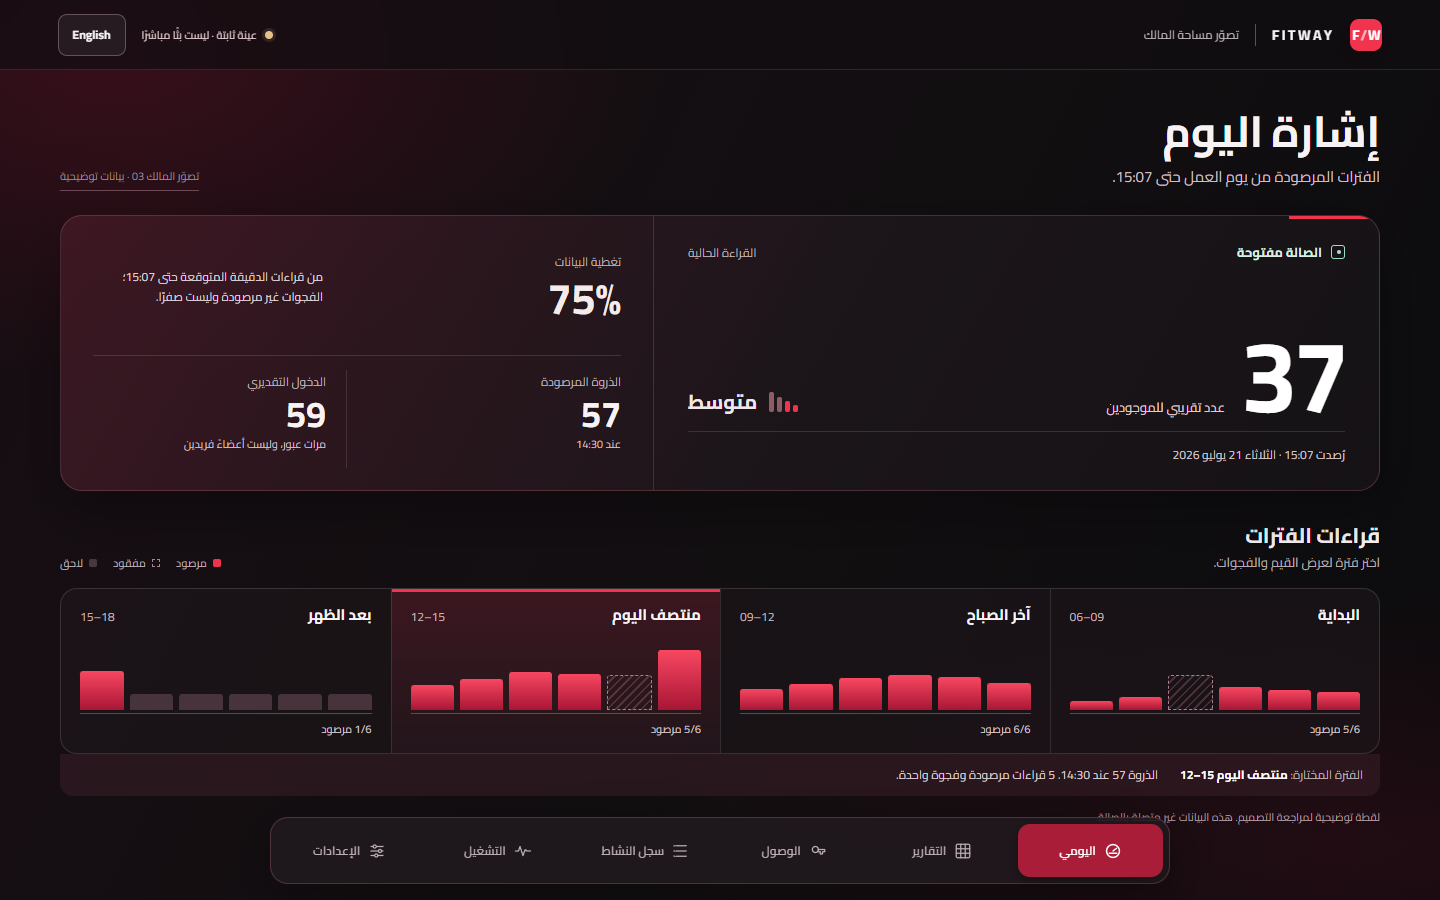
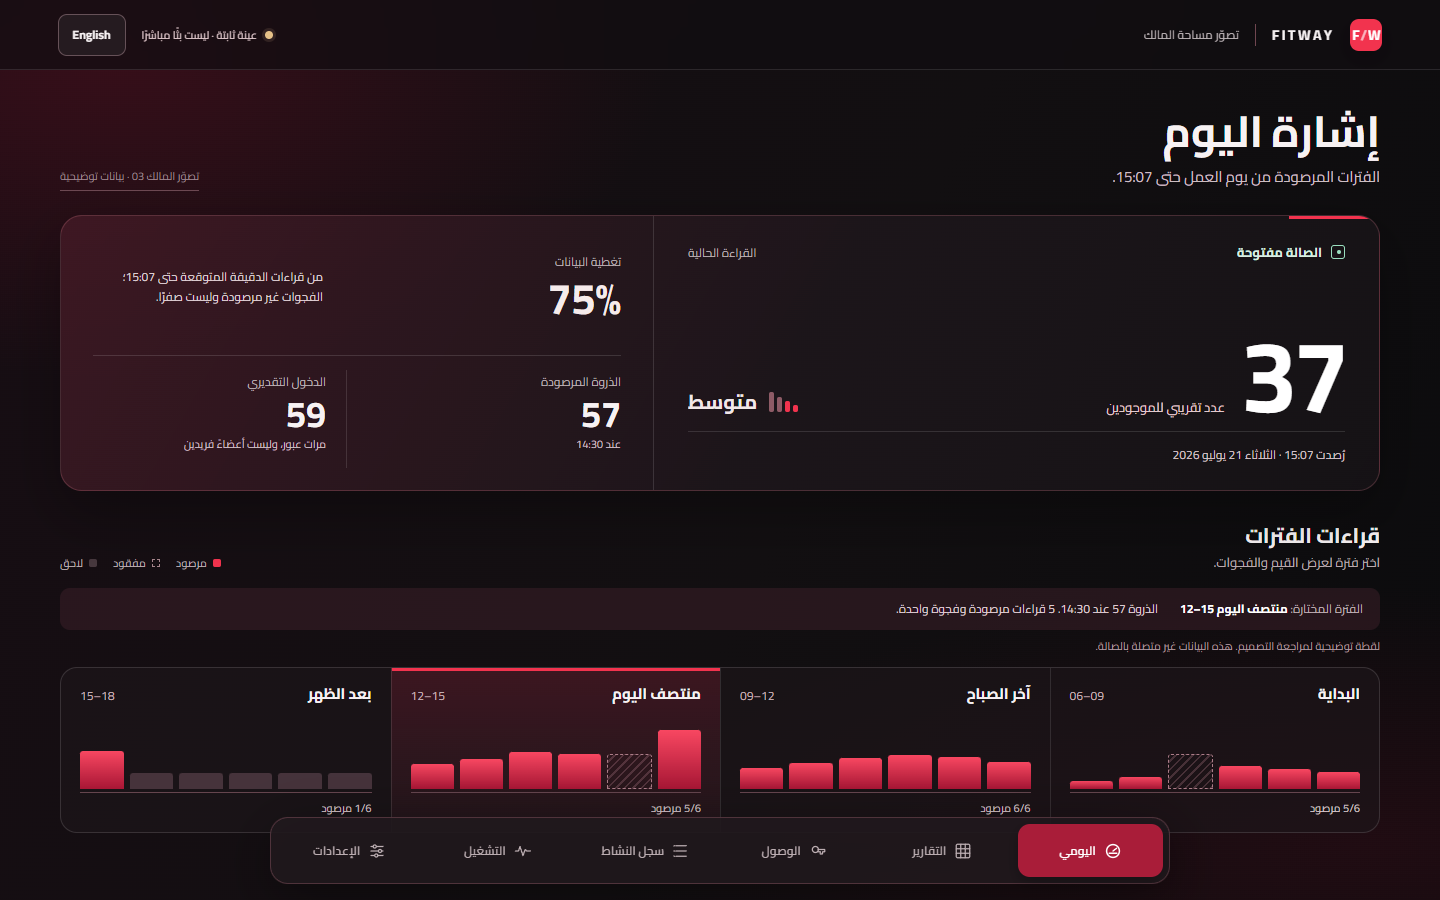
Keep Owner Daily period feedback clear of mobile dock

Changed region(s): [[0.0312, 0.6533, 0.9688, 0.9333]]

diff --git a/design-research/owner-composition-exploration-r03/concepts/direction-03/app.js b/design-research/owner-composition-exploration-r03/concepts/direction-03/app.js
@@ -280,6 +280,8 @@ function daily() {
     </section>
     <section class="period-section" aria-labelledby="period-title">
       <div class="section-heading"><div><h2 id="period-title">${t("intervals")}</h2><p>${t("periodHint")}</p></div><div class="legend"><span><i class="legend-observed"></i>${t("observed")}</span><span><i class="legend-missing"></i>${t("missing")}</span><span><i class="legend-future"></i>${t("notYet")}</span></div></div>
+      <div class="detail-strip" role="status" aria-live="polite"><span>${t("selected")}: <strong>${t("period" + selectedPeriod)} <bdi dir="ltr">${t("period" + selectedPeriod + "time")}</bdi></strong></span><p>${t("period" + selectedPeriod + "detail")}</p></div>
+      <p class="truth-note">${t("sampleNotice")}</p>
       <div class="period-track">${periods
 				.map(
 					(
@@ -292,8 +294,6 @@ function daily() {
       </button>`,
 				)
 				.join("")}</div>
-      <div class="detail-strip" role="status" aria-live="polite"><span>${t("selected")}: <strong>${t("period" + selectedPeriod)} <bdi dir="ltr">${t("period" + selectedPeriod + "time")}</bdi></strong></span><p>${t("period" + selectedPeriod + "detail")}</p></div>
-      <p class="truth-note">${t("sampleNotice")}</p>
     </section>
   </div>`;
 }

diff --git a/design-research/owner-composition-exploration-r03/concepts/direction-03/style.css b/design-research/owner-composition-exploration-r03/concepts/direction-03/style.css
@@ -110,4 +110,8 @@ table{border-collapse:collapse;width:100%;min-width:510px;font-size:12px}caption
 @media(max-width:350px){.nav-item{font-size:8px}.matrix-axis,.matrix-row{grid-template-columns:43px repeat(6,minmax(0,1fr));gap:2px}.matrix-row strong{font-size:8px}.matrix-bottom{margin-inline-start:45px}.heat-cell{font-size:10px}}
 @media(max-width:580px){.mobile-truth{display:inline-block;color:var(--amber);font-size:10px;line-height:1.4;margin-block-start:5px}.page-lead{margin-block-end:14px}main{padding-block-start:19px}}
 @media(max-width:580px){.heat-cell{height:44px}.reports-layout{padding-block-end:30px}}
+/* Keep selected-period feedback and sample truth ahead of the banded chart. */
+.period-section .detail-strip{border-radius:10px}
+.period-section .truth-note{margin-block:8px 13px}
+@media(max-width:580px){.period-section .detail-strip{padding:7px 10px}.period-section .truth-note{margin-block:5px 10px}}
 @media(prefers-reduced-motion:reduce){html{scroll-behavior:auto}*,*:before,*:after{transition-duration:0.01ms!important;animation-duration:0.01ms!important}}

diff --git a/design-research/owner-composition-exploration-r03/concepts/direction-03/README.md b/design-research/owner-composition-exploration-r03/concepts/direction-03/README.md
@@ -33,7 +33,7 @@ For future full-surface work, the readout must switch content by actual state: l
 
 ## Accessibility and limits
 
-The concept uses Cairo at actual 400/600/700 weights, Arabic RTL and English LTR with Western digits; native buttons, headings, landmarks, a skip link, visible focus, text labels for state, and reduced motion. Matrix cells are at least 44px tall on mobile. The six-item mobile dock remains visible and the document scrolls beneath it with bottom padding; controls lower on Reports are reachable by scrolling. This is an early visual comparison, not a fully verified seven-surface product. It has no live data or authenticated behavior.
+The concept uses Cairo at actual 400/600/700 weights, Arabic RTL and English LTR with Western digits; native buttons, headings, landmarks, a skip link, visible focus, text labels for state, and reduced motion. Matrix cells are at least 44px tall on mobile. The selected Daily period detail and static-sample explanation precede the period bands so the bottom dock cannot cover their first-screen reading. The six-item mobile dock remains visible and the document scrolls beneath it with bottom padding; controls lower on Reports are reachable by scrolling. This is an early visual comparison, not a fully verified seven-surface product. It has no live data or authenticated behavior.
 
 ## Preview and evidence
 
